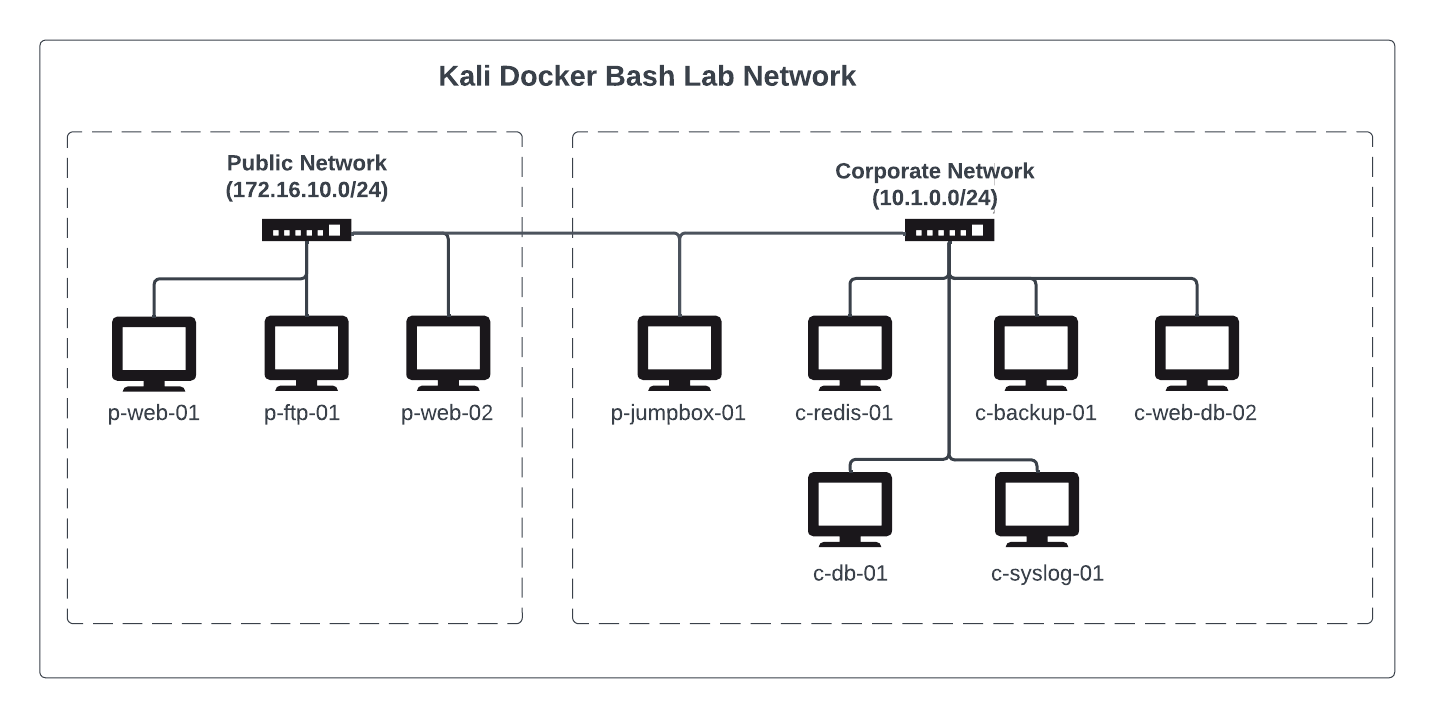
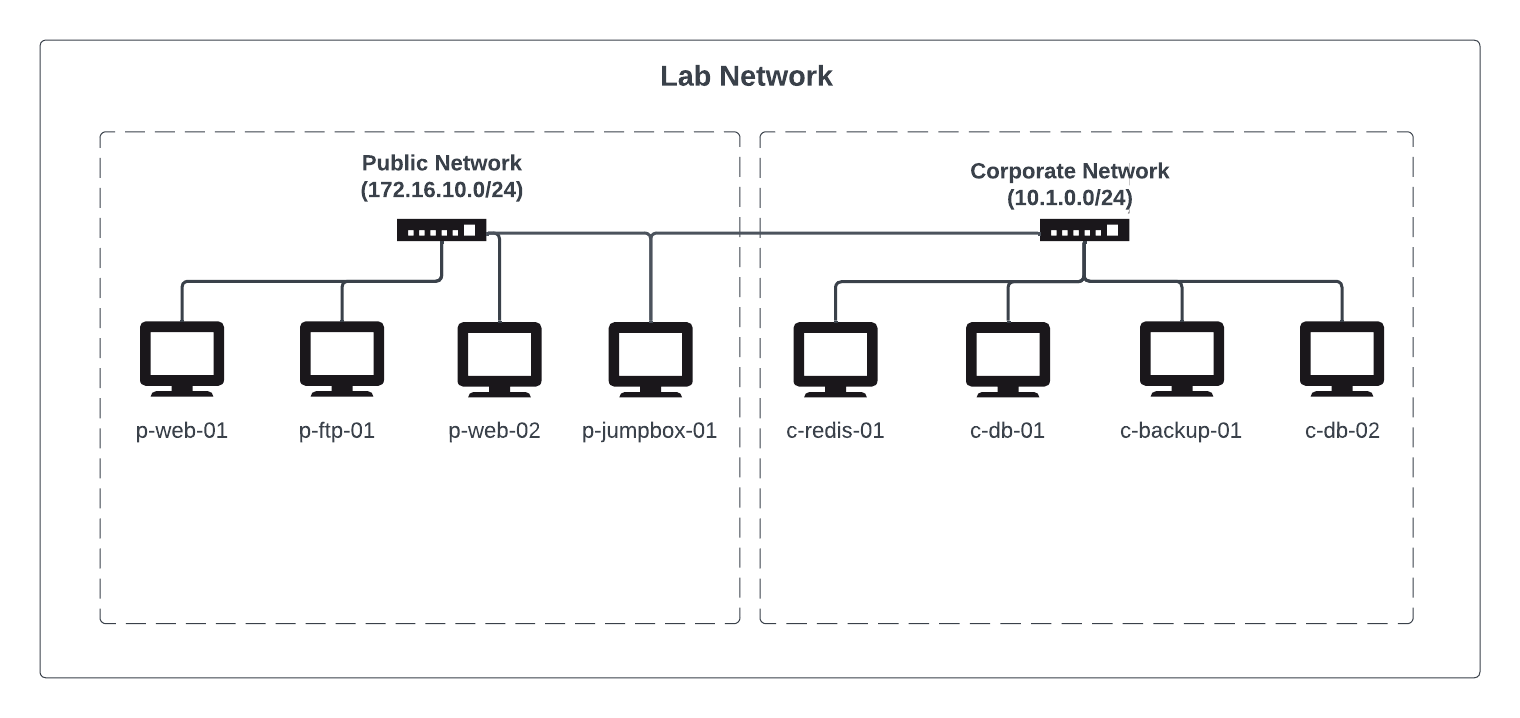
updates for chapter 11

diff --git a/lab/README.md b/lab/README.md
@@ -14,7 +14,6 @@
 | c-redis-01 | | 10.1.0.14 | c-redis-01.acme-infinity-servers.com |
 | c-db-01 | | 10.1.0.15 | c-db-01.acme-infinity-servers.com |
 | c-db-02 | | 10.1.0.16 | c-db-02.acme-infinity-servers.com |
-| c-syslog-01 | | 10.1.0.17 | c-syslog-01.acme-infinity-servers.com |
 
 
 # Lab Installation
